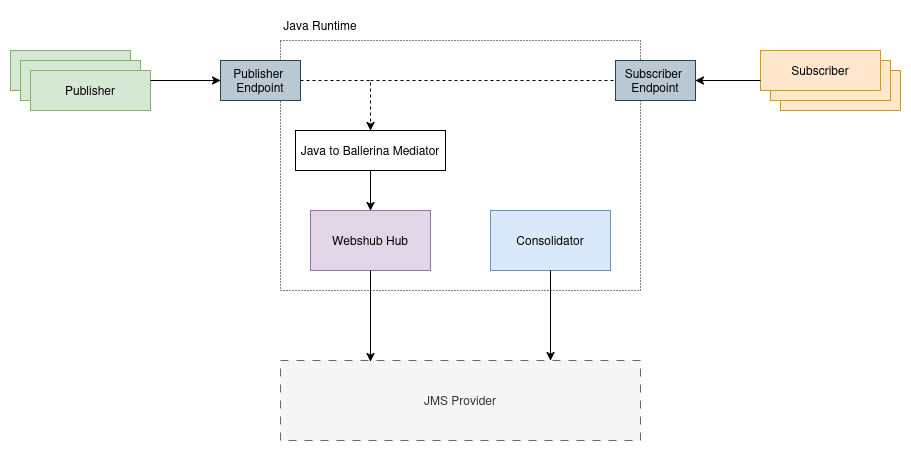
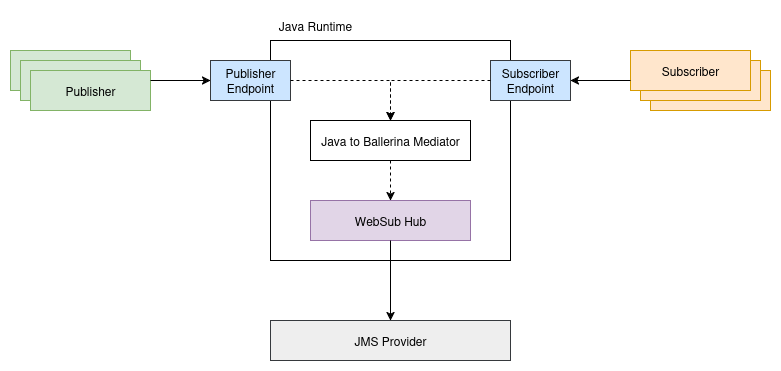
Update example readme

diff --git a/examples/jms-websubhub/Readme.md b/examples/jms-websubhub/Readme.md
@@ -6,15 +6,14 @@
 2. [Goals and technical requirements](#2-goals-and-technical-requirements)
 3. [Implementation](#3-implementation)
    * 3.1. [State management](#31-state-management)
-   * 3.2. [Other quality of services](#32-other-quality-of-services)
+   * 3.2. [System events](#32-system-events)
+   * 3.3. [Other quality of services](#33-other-quality-of-services)
 4. [Invoking the APIs from Java environment](#4-invoking-the-apis-from-java-environment)
-   * 4.1. [Invoking the `consolidator` API](#41-invoking-the-consolidator-api)
-   * 4.2. [Invoking the `hub` API](#42-invoking-the-hub-api)
+   * 4.1. [Invoking the `hub` API](#41-invoking-the-hub-api)
 5. [Deploying the system locally](#5-deploying-the-system-locally)
    * 5.1. [Prerequisites](#51-prerequisites)
    * 5.2. [Setting up IBM MQ](#52-setting-up-ibm-mq)
-   * 5.3. [Deploying the `consolidator`](#53-deploying-the-consolidator)
-   * 5.4. [Deploying the `hub`](#54-deploying-the-hub)
+   * 5.3. [Deploying the `hub`](#53-deploying-the-hub)
 6. [References](#6-references)
 
 ## 1. Overview
@@ -60,19 +59,17 @@ At a high level, the following key components are associated with this implement
 |:----------------------------------------------------------------------------:|
 | *Image 1: Current system architecture*                                       |
 
-
-Within the current system architecture, there are two primary components: the `hub` and the `consolidator`. The `hub` functions as a Websub `hub`, while the `consolidator` is responsible for overseeing the system's overall state by merging state-update events into a single consolidated state.
+In the current system architecture, the primary component is the `hub`. It serves a dual purpose: acting as the WebSub `hub` and managing the system’s overall state by consolidating incoming state-update events into a unified state representation.
 
 ### 3.1. State management
 
-To manage the system's state, both the `hub` and the `consolidator` make use of two JMS topics. The `websub-events` topic is utilized for broadcasting system state update events to all relevant parties, while the `websub-events-snapshot` topic serves as a storage location for the current snapshot of the system's overall state.
+The `hub` manages the system's state using two JMS topics. The `websub-events` topic is responsible for broadcasting state update events to all interested parties. Meanwhile, the `websub-events-snapshot` topic holds the latest consolidated snapshot of the system’s overall state, providing a reference point for reconstructing or synchronizing state when needed.
 
-| ![System topic usage](./resources/images/websubhub-topic-2.0.png) |
+| ![System state](./resources/images/system-state-topics.png)       |
 |:-----------------------------------------------------------------:|
-| *Image 2: System topic usage*                                     |
+| *Image 2: System state related topics*                            |
 
-
-While both the `hub` and the `consolidator` listen to `websub-events` topic, `websub-events-snapshot` topic is only used by the `consolidator`. Whenever the `consolidator` re-starts, it will read the latest snapshot state from `websub-events-snapshot` topic and re-initialize the state. But, whenever the `hub` restarts it shoult retrieve the latest state snapshot from the `consolidator`.
+The `hub` uses the `websub-events` topic to build and update the system state during application runtime by processing incoming state change events. In contrast, the `websub-events-snapshot` topic is used during the system initialization phase—typically after a restart—to load the latest consolidated snapshot and reconstruct the initial state of the system.
 
 Following JSON structure is used to store the state-snapshot in the `websub-events-snapshot` topic.
 ```json
@@ -101,29 +98,28 @@ Following JSON structure is used to store the state-snapshot in the `websub-even
 }
 ```
 
-Each WebSub `topic` directly maps to a JMS `topic`, and each WebSub `subscriber` is represented by a durable JMS `subscription` associated with that topic.
+Each WebSub `topic` directly maps to a JMS `topic`, and each WebSub `subscriber` is represented by a **shared-durable** JMS `subscription` associated with that topic.
 
-### 3.2. Other quality of services
+### 3.2. System events
+
+In addition to the state-related JMS topics, the `hub` also uses a separate topic named `system-events` to broadcast system-level notifications. This topic is primarily used to signal the arrival of a new `hub` instance. When a new instance starts up, it publishes a `SystemInitEvent` to the `system-events` topic. Upon receiving this event, any active `hub` instance responds by publishing the current system state snapshot to the `websub-events-snapshot` topic, enabling the newly started instance to initialize its state with the latest data.
+
+| ![System events](./resources/images/system-events-topic.png)      |
+|:-----------------------------------------------------------------:|
+| *Image 2: System events related topic*                            |
+
+### 3.3. Other quality of services
 
 For message persistence and subscription management, the implementation utilizes the JMS provider (in this case IBM MQ).
 
 ## 4. Invoking the APIs from Java environment
 
-### 4.1. Invoking the `consolidator` API
-
-The `consolidator` offers an API to retrieve the latest state snapshot for the system. 
-
-| Function Name    | Description                                           | Argument Type  | Argument Structure | Return Type | Return Type Structure                                                                      |
-|------------------|-------------------------------------------------------|----------------|--------------------|-------------|--------------------------------------------------------------------------------------------|
-| getStateSnapshot | Retrieves the latest state snapshot for the system.   | N/A            | N/A                | json        | { topics: websubhub:TopicRegistration[], subscriptions: websubhub:VerifiedSubscription[] } |
-
-### 4.2. Invoking the `hub` API
+### 4.1. Invoking the `hub` API
 
 The `hub` offers APIs to initiate the WebSub flows.
 
 | Function Name     | Description                                                  | Argument Type | Argument Structure                                                                                                    | Return Type | Return Type Structure                                |
 |-------------------|--------------------------------------------------------------|---------------|-----------------------------------------------------------------------------------------------------------------------|-------------|------------------------------------------------------|
-| initHubState      | Initialize the `hub` state and start the state-sync process. | json          | { topics: websubhub:TopicRegistration[], subscriptions: websubhub:VerifiedSubscription[] }                            | N/A         | N/A                                                  |
 | isTopicExist   | Checks whether a particular WebSub `topic` exists in the `hub`.                  | string          | "topic-a"                                                                                    | boolean        | `true` or `false` |
 | onRegisterTopic   | Handles registration of a new WebSub topic.                  | json          | { topic: string, hubMode: string }                                                                                    | json        | { statusCode: int, mediaType: string, body: string } |
 | onDeregisterTopic | Handles deregistration of an existing WebSub topic.          | json          | { topic: string, hubMode: string }                                                                                    | json        | { statusCode: int, mediaType: string, body: string } |
@@ -149,7 +145,7 @@ The `hub` offers APIs to initiate the WebSub flows.
 
 4. JNDI bindings for IBM MQ JMS API are required. To create the JNDI bindings use [IBM MQ Explorer](https://www.ibm.com/docs/en/ibm-mq/9.4.x?topic=mq-explorer). Refer to [this article](https://ayesh9303.medium.com/jms-with-ballerina-lang-part-6-35ac842014a9) to understand how to create JNDI bindings for IBM MQ JMS API.
 
-    > **Note :** In this setup, two connection factories—`BallerinaHubConnectionFactory` and `BallerinaConsolidatorConnectionFactory`—must be created, each with a unique client identifier for the **hub** and **consolidator**, respectively.
+    > **Note :** In this setup, a JMS connection factory—`BallerinaHubConnectionFactory`—must be created, each with a unique client identifier for the **hub**.
 
 ### 5.2. Setting up IBM MQ
 
@@ -162,34 +158,7 @@ To set up IBM MQ using a Docker container, navigate to the `module-ballerina-web
     docker compose up
     ```
 
-### 5.3. Deploying the `consolidator`
-
-1. Update the native dependency path for following dependencies in the `consolidator/Ballerina.toml`
-
-    ```toml
-    [[platform.java17.dependency]]
-    path="/<path-to-downloaded-location>/fscontext.jar"
-
-    [[platform.java17.dependency]]
-    path="/<path-to-downloaded-location>/providerutil.jar"
-    ```
-
-2. Update the `providerUrl` field under `consolidatorsvc.config.brokerConfig` in the `consolidator/Config.toml` file to point to the file system location of the JNDI bindings.
-3. Build the `consolidator` project using the following command.
-    
-    ```sh
-      bal build consolidator
-    ```
-
-4. Copy the `consolidator/target/bin/consolidatorsvc.jar` file to the Java-based environment where the setup will be embedded, and ensure it is included in the runtime classpath. Additionally, set the path to `consolidator/Config.toml` in the `BAL_CONFIG_FILES` environment variable.
-5. Invoke Ballerina runtime `init` from the Java environment to start the consolidator service.
-6. When the `consolidator` starts successfully, the following log message will be printed.
-
-    ```sh
-    Event consolidator service started successfully
-    ```
-
-### 5.4. Deploying the `hub`
+### 5.3. Deploying the `hub`
 
 1. Update the native dependency path for following dependencies in the `hub/Ballerina.toml`
 
@@ -209,13 +178,14 @@ To set up IBM MQ using a Docker container, navigate to the `module-ballerina-web
     ```
 
 4. Copy the `hub/target/bin/jmshub.jar` file to the Java-based environment where the setup will be embedded, and ensure it is included in the runtime classpath. Additionally, set the path to `hub/Config.toml` in the `BAL_CONFIG_FILES` environment variable.
-5. Invoke Ballerina runtime `init` from the Java environment to start the consolidator service.
-6. Retrieve the latest system state by calling the `getStateSnapshot` API of the `consolidator`, and then use the returned data to invoke the `initHubState` function on the `hub`.
-7. When the `hub` starts successfully, the following log message will be printed.
+5. Invoke Ballerina runtime `init` from the Java environment to start the WebSub Hub.
+6. When the `hub` starts successfully, the following log message will be printed.
 
     ```sh
     Websubhub service started successfully
     ```
+
+> **Note:** When deploying multiple `hub` instances, each must be assigned a **unique** `serverId`. You can set this using the `SERVER_ID` environment variable or by configuring the `serverId` field in the `hub/Config.toml` file.
 
 ## 6. References
 - [IBM MQ](https://www.ibm.com/docs/en/ibm-mq/9.4.x?topic=mq)
